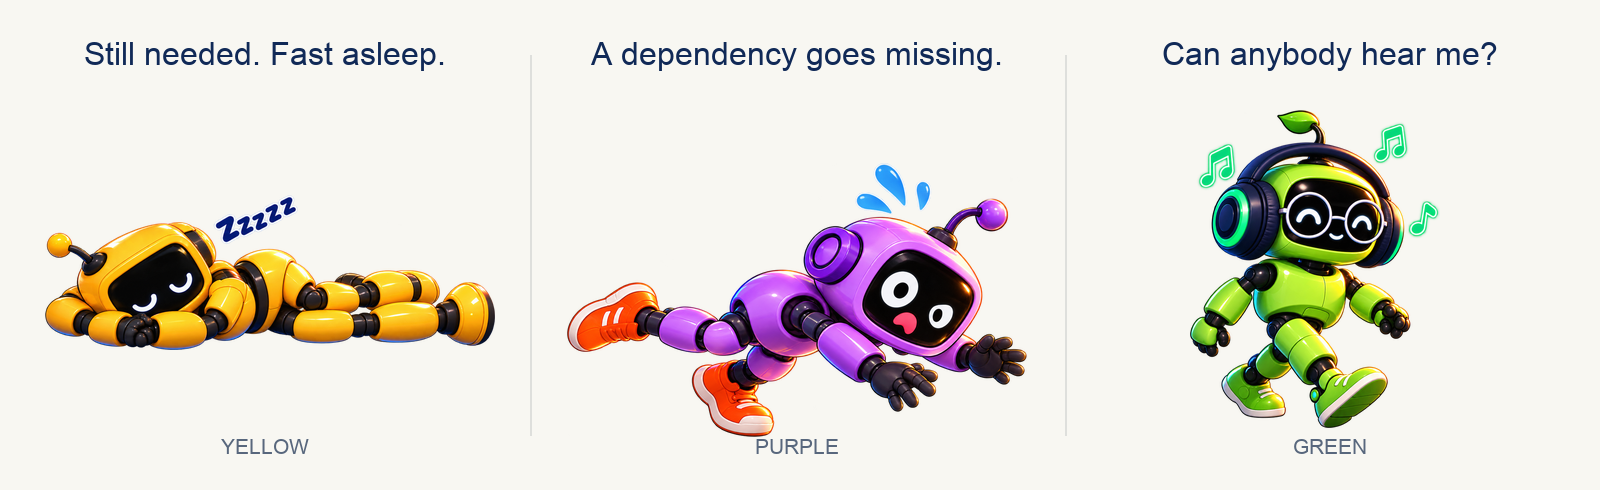
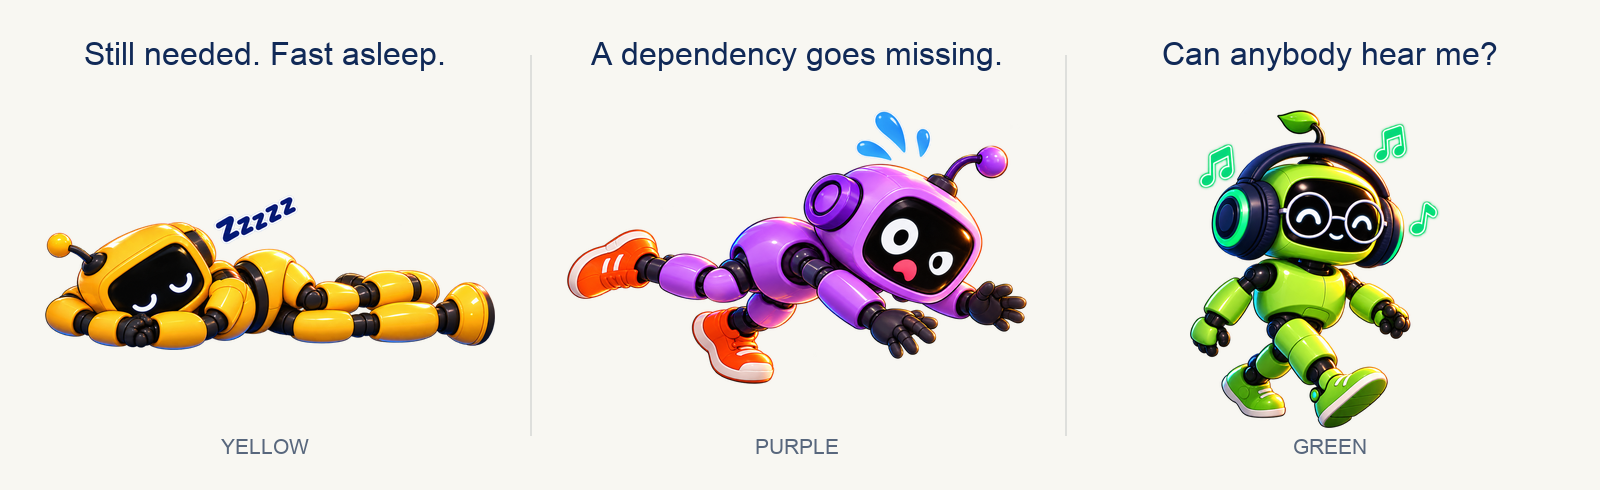
Lift Purple and refine the machine heading in the explainer
By: Stella

Changed region(s): [[0.3438, 0.2143, 0.6562, 0.8878]]

diff --git a/brand/compose_explainer.py b/brand/compose_explainer.py
@@ -39,7 +39,7 @@ text(d,(265,42),'Still needed. Fast asleep.',32,anchor='mt')
 text(d,(797,42),'A dependency goes missing.',32,anchor='mt')
 text(d,(1330,42),'Can anybody hear me?',32,anchor='mt')
 asset(im,'yellow.png',(45,195),450)
-asset(im,'purple.png',(567,163),460)
+asset(im,'purple.png',(567,110),460)
 asset(im,'green.png',(1190,110),250)
 text(d,(265,439),'YELLOW',21,MUTED,'mt');text(d,(797,439),'PURPLE',21,MUTED,'mt');text(d,(1330,439),'GREEN',21,MUTED,'mt')
 save(im,'coordination')

diff --git a/docs/WORKING-WITH-AI-TEAMS.md b/docs/WORKING-WITH-AI-TEAMS.md
@@ -51,7 +51,7 @@ The humour is affectionate. We were the friends doing the stumbling. Better
 prompts helped individual tasks; they could not make LLM-only coordination
 into a dependable system.
 
-## Put the repeatable parts in the machine
+## We put the repeatable parts in the machine
 
 nova-sprint keeps the plan, assignments, dependencies, attempts, reviews, and
 landing state outside any one conversation. Its running loop checks that
